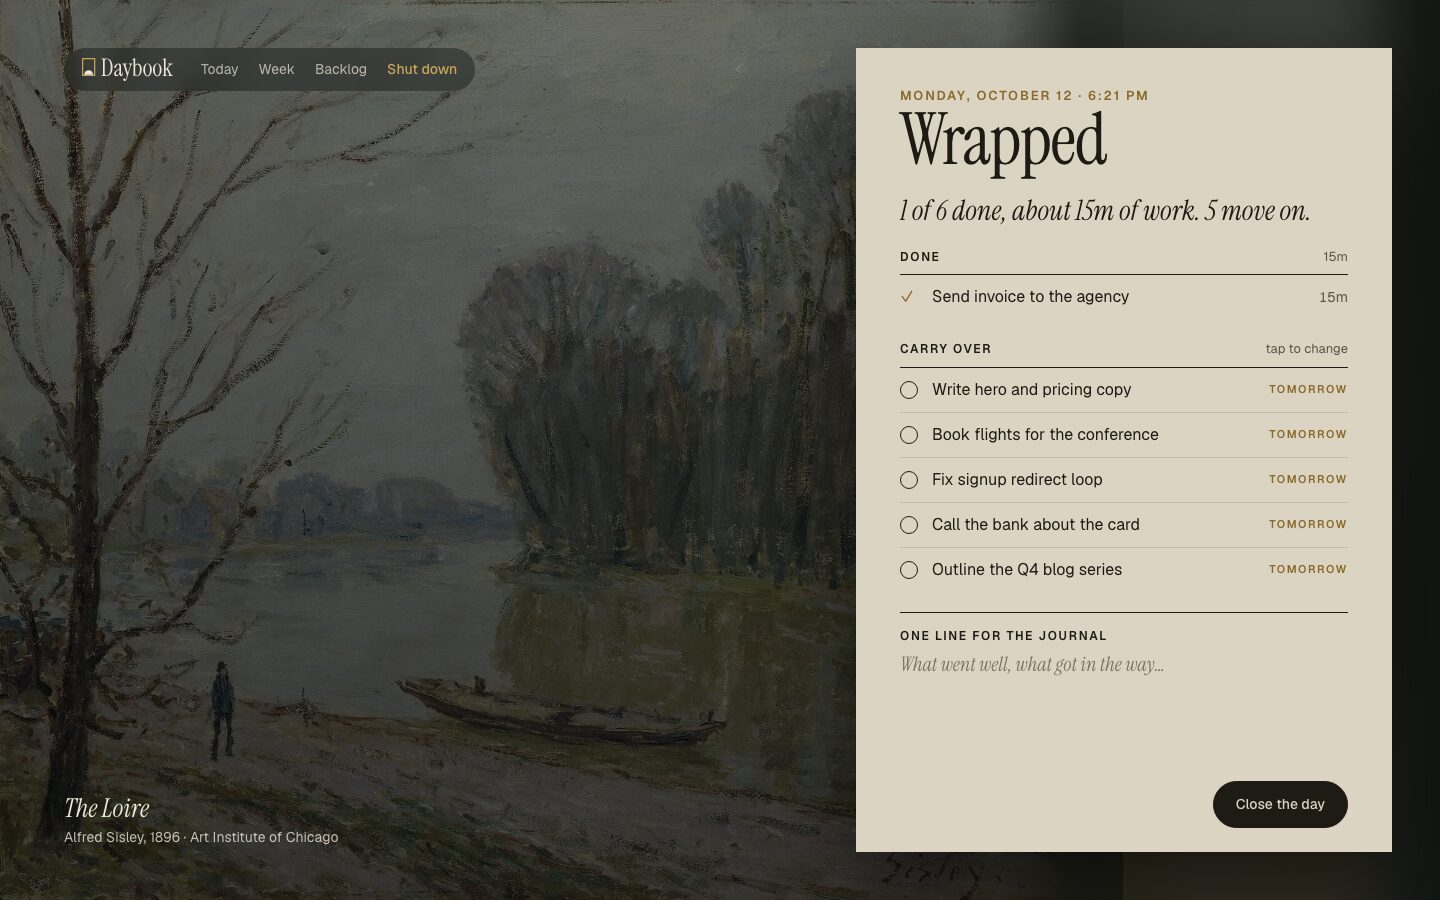
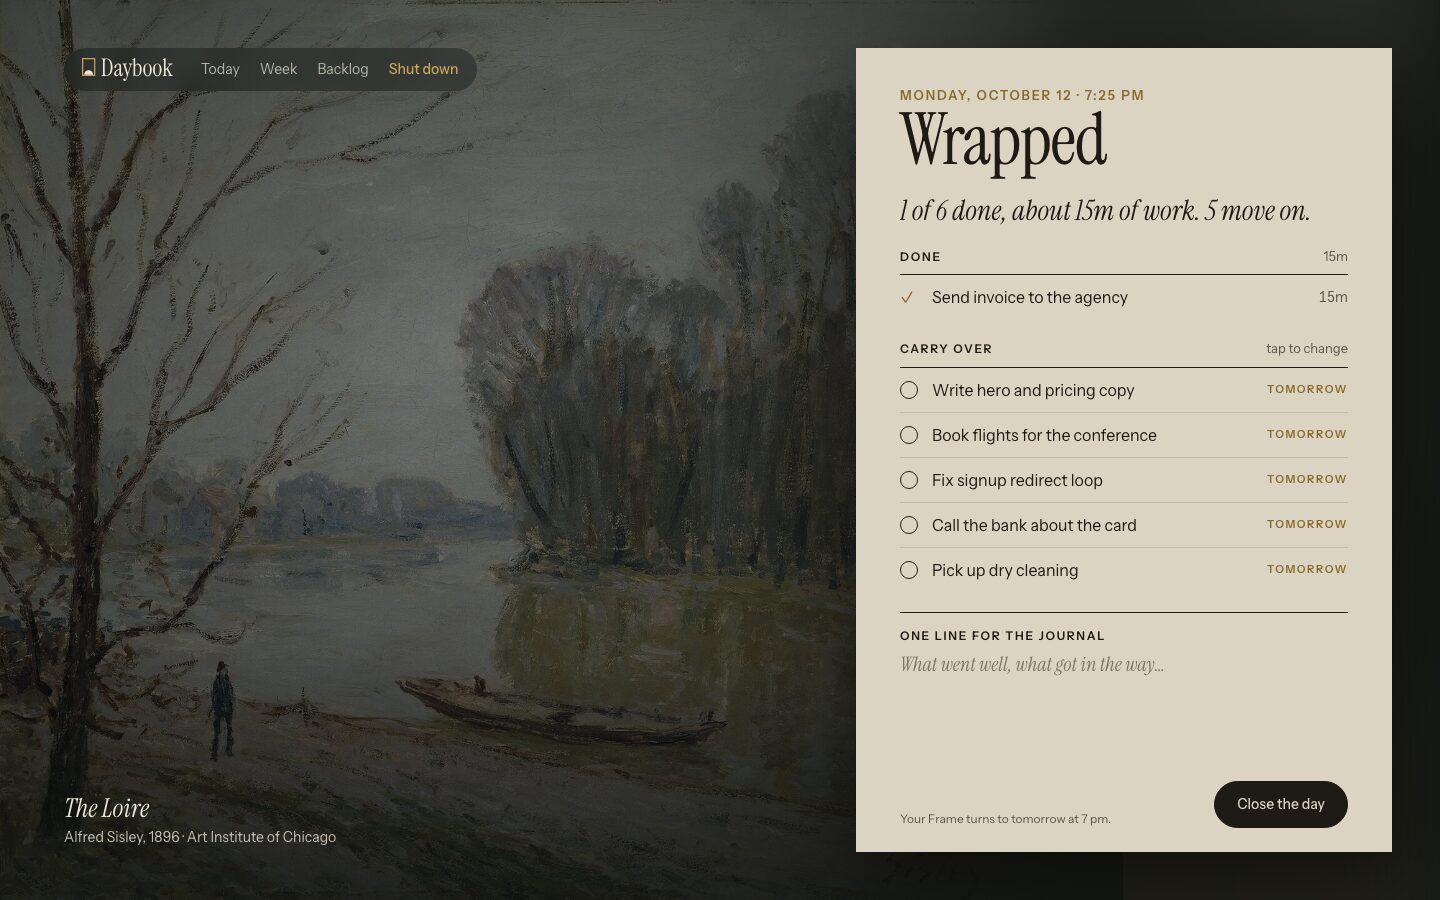
Open-source housekeeping: contributing and security docs, PR template, generic demo screenshots

diff --git a/next.config.ts b/next.config.ts
@@ -1,7 +1,8 @@
 import type { NextConfig } from "next";
 
 const nextConfig: NextConfig = {
-  /* config options here */
+  // No dev badge over the painting (and none in screenshots).
+  devIndicators: false,
   cacheComponents: true,
   partialPrefetching: true,
   turbopack: {

diff --git a/CONTRIBUTING.md b/CONTRIBUTING.md
@@ -1,0 +1,50 @@
+# Contributing to Daybook
+
+Thanks for helping. Daybook is meant to stay small: a focus line, a short list
+of tasks, two rituals, and a painting. A change that keeps it simple is more
+likely to land than one that adds a mode.
+
+## Getting started
+
+```bash
+pnpm install
+pnpm dev            # http://localhost:3000, no key and no services needed
+pnpm verify         # lint, typecheck, tests, production build: run before a PR
+```
+
+The Mac app:
+
+```bash
+open mac/Daybook.xcworkspace                 # macOS 14+, Xcode 16+
+swift test --package-path mac/DaybookPackage
+```
+
+## Where things live
+
+[AGENTS.md](AGENTS.md) maps the code (it's written for coding agents, but it
+reads fine for people). [docs/agents.md](docs/agents.md) documents the MCP
+tools and the REST API.
+
+## Ground rules
+
+- All data changes go through `lib/daybook.ts`. The REST routes, the MCP tools
+  and the UI are thin layers over it.
+- Changes to the Frame merge (`lib/frame.ts`) need a test in
+  `test/frame.test.ts`.
+- UI copy goes in `lib/i18n.ts`, in English and Spanish.
+- Motion respects `prefers-reduced-motion`.
+- If you change a tool, a route or an environment variable, update
+  `docs/agents.md`, `public/llms.txt` and `.env.example` in the same PR.
+- Never commit secrets or personal data. Demo data stays generic.
+
+## Pull requests
+
+Branch from `main` and keep PRs focused. Describe what you changed, how you
+checked it, and anything you couldn't check (a real Linear workspace, a real
+Frame TV). CI runs lint, types, tests, the build, and a secret scan.
+
+## Paintings
+
+The bundled paintings are public domain, from the Wikimedia Commons scans used
+by [Frame Dashboard](https://github.com/joseamijares/frame-dashboard). Keep
+`lib/art.json` in step with its rotation so both show the same painting.

diff --git a/SECURITY.md b/SECURITY.md
@@ -1,0 +1,18 @@
+# Security
+
+Daybook holds your plans and, if you connect them, keys for Linear and Frame
+Dashboard. Please report vulnerabilities privately through GitHub's
+**Security → Report a vulnerability** on this repository, not in a public
+issue.
+
+## What to know when self-hosting
+
+- `DAYBOOK_KEY` grants full read and write access, to the web app, the REST
+  API and MCP. Generate it with `openssl rand -hex 24` and treat it like a
+  password. On Vercel, Daybook refuses to run without it.
+- A URL of the form `/api/mcp?key=…`, used by ChatGPT and Grok connectors,
+  contains the key. Don't share it.
+- `CRON_SECRET` only allows `/api/cron/sync`.
+- Linear and Frame keys stay on the server and are never sent to the browser
+  or to agents.
+- `/api/health` is the only public route, and it returns no data.

diff --git a/README.md b/README.md
@@ -151,6 +151,12 @@ in `lib/art.json`, and the credit on screen links to it.
 [Geist](https://fonts.google.com/specimen/Geist) are under the SIL Open Font
 License.
 
+## Contributing
+
+Issues and pull requests are welcome. See [CONTRIBUTING.md](CONTRIBUTING.md),
+and report security issues privately as described in
+[SECURITY.md](SECURITY.md).
+
 ## License
 
 MIT for the code.

diff --git a/.github/pull_request_template.md b/.github/pull_request_template.md
@@ -1,0 +1,8 @@
+## What changed
+
+## How I checked it
+- [ ] `pnpm verify`
+- [ ] `swift test --package-path mac/DaybookPackage` (if `mac/` changed)
+- [ ] Docs updated (`docs/agents.md`, `public/llms.txt`, `.env.example`) if a tool, route or env var changed
+
+## Not checked
